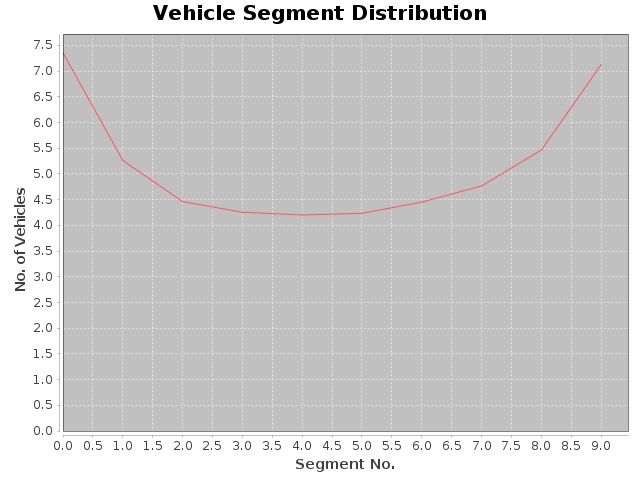
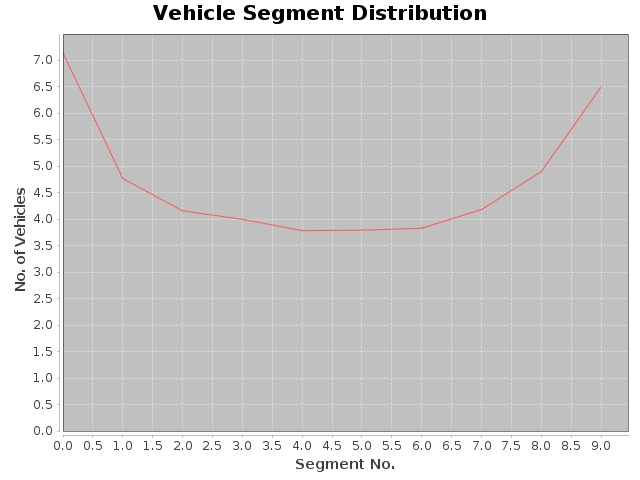
Added a fixed cars mode and obtained relevant plot

diff --git a/src/Simulator.java b/src/Simulator.java
@@ -40,6 +40,9 @@ public class Simulator {
 	static double grid_cost = 0.06;
 	static double solar_cost = 0.001;
 	static double[] min_pdr = new double[no_episodes];
+	static boolean fixed_cars = false;
+	static boolean uniform = true;
+	static int fixed_cars_no = 300; // No. of cars to enter from each dxn
 
 	// Exponential lambdas
 	static double lambda_vehicle = 3.0;
@@ -98,8 +101,12 @@ public class Simulator {
 					templist.add(row.get(j));
 				}
 			}
-			ArrayList<RSU> Uprime = templist; //TODO
-			//ArrayList<RSU> Uprime = RPR(templist, min_pdr[episode_no]);
+			ArrayList<RSU> Uprime; // TODO
+			if (uniform) {
+				Uprime = templist;
+			} else {
+				Uprime = RPR(templist, min_pdr[episode_no]);
+			}
 			for (int i = 0; i < Uprime.size(); i++) {
 				System.out.print(Uprime.get(i).id + ", ");
 			}
@@ -597,19 +604,58 @@ public class Simulator {
 			}
 			int new_seg_x = (int) (v.pos_x / segment_len_x);
 			int new_seg_y = (int) (v.pos_y / segment_len_y);
+			// Vehicle outside boundaries
 			if (new_seg_x >= (road_len_x / segment_len_x) || new_seg_x < 0
 					|| new_seg_y >= (road_len_y / segment_len_y)
 					|| new_seg_y < 0) {
-				rsulist.get(v.segment_x).get(v.segment_y).idle = -1;
-				if (trackVehicle) {
-					System.out.println("Vehicle " + v.id + " deleted");
+				if (fixed_cars) {
+					// Loop the vehicle
+					// Put it at the border
+					if (new_seg_x >= (road_len_x / segment_len_x)) {
+						new_seg_x = (road_len_x / segment_len_x) - 1;
+					} else if (new_seg_x < 0) {
+						new_seg_x = 0;
+					}
+					if (new_seg_y >= (road_len_y / segment_len_y)) {
+						new_seg_y = (road_len_y / segment_len_y) - 1;
+					} else if (new_seg_y < 0) {
+						new_seg_y = 0;
+					}
+					// Change its direction
+					v.x_dxn *= -1;
+					v.y_dxn *= -1;
+					if (v.tx) {
+						rsulist.get(v.segment_x).get(v.segment_y).idle = -1;
+						rsulist.get(new_seg_x).get(new_seg_y).idle = v.id;
+					}
+					if (trackVehicle) {
+						System.out.println("Vehicle " + v.id
+								+ " tx seg change from (" + v.segment_x + ","
+								+ v.segment_y + ") to (" + new_seg_x + ","
+								+ new_seg_y + ")");
+					}
+					v.segment_x = new_seg_x;
+					v.segment_y = new_seg_y;
+					if (trackVehicle) {
+						System.out.println("Vehicle " + v.id + " new seg ("
+								+ v.segment_x + "," + v.segment_y + ")");
+					}
+				} else {
+					if (v.tx) {
+						rsulist.get(v.segment_x).get(v.segment_y).idle = -1;
+					}
+					if (trackVehicle) {
+						System.out.println("Vehicle " + v.id + " deleted");
+					}
+					iterator.remove();
 				}
-				iterator.remove();
 			} else {
 				if ((v.segment_x != new_seg_x || v.segment_y != new_seg_y)
 						&& v.tx) {
-					rsulist.get(v.segment_x).get(v.segment_y).idle = -1;
-					rsulist.get(new_seg_x).get(new_seg_y).idle = v.id;
+					if (v.tx) {
+						rsulist.get(v.segment_x).get(v.segment_y).idle = -1;
+						rsulist.get(new_seg_x).get(new_seg_y).idle = v.id;
+					}
 					if (trackVehicle) {
 						System.out.println("Vehicle " + v.id
 								+ " tx seg change from (" + v.segment_x + ","
@@ -626,69 +672,167 @@ public class Simulator {
 			}
 		}
 
-		// Generate vehicles along X and Y axes, in both dxns
-		int no_generated = (int) generateExp(lambda_vehicle);
-		veh_dist[timestep_no] += no_generated;
+		if (fixed_cars) {
+			if (timestep_no == 0) {
+				// Generate fixed no. of vehicles along X and Y axes, in both
+				// dxns
+				int no_generated = fixed_cars_no;
+				veh_dist[timestep_no] += no_generated;
 
-		if (trackVehicle) {
-			System.out.println(vehlist.size() + " vehicles present.");
-			System.out.println(no_generated + " vehicles gen from L to R:");
-		}
-		for (int i = 0; i < no_generated; i++) {
-			Vehicle to_add = new Vehicle(generateExp(lambda_velocity), +1, 0,
-					0, segment_len_y
-							* rand.nextInt((int) (road_len_y / segment_len_y)));
-			vehlist.add(to_add);
-			if (trackVehicle) {
-				System.out.println("Vehicle " + to_add.id);
+				if (trackVehicle) {
+					System.out.println(vehlist.size() + " vehicles present.");
+					System.out.println(no_generated
+							+ " vehicles gen from L to R:");
+				}
+				for (int i = 0; i < no_generated; i++) {
+					Vehicle to_add = new Vehicle(
+							generateExp(lambda_velocity),
+							+1,
+							0,
+							0,
+							segment_len_y
+									* rand.nextInt((int) (road_len_y / segment_len_y)));
+					vehlist.add(to_add);
+					if (trackVehicle) {
+						System.out.println("Vehicle " + to_add.id);
+					}
+				}
+
+				no_generated = fixed_cars_no;
+				if (trackVehicle) {
+					System.out.println(no_generated
+							+ " vehicles gen from R to L:");
+				}
+				for (int i = 0; i < no_generated; i++) {
+					Vehicle to_add = new Vehicle(
+							generateExp(lambda_velocity),
+							-1,
+							0,
+							road_len_x - 1,
+							segment_len_y
+									* rand.nextInt((int) (road_len_y / segment_len_y)));
+					vehlist.add(to_add);
+					if (trackVehicle) {
+						System.out.println("Vehicle " + to_add.id);
+					}
+				}
+				if (vert_traffic) {
+					no_generated = fixed_cars_no;
+					if (trackVehicle) {
+						System.out.println(no_generated
+								+ " vehicles gen from T to B:");
+					}
+					for (int i = 0; i < no_generated; i++) {
+						Vehicle to_add = new Vehicle(
+								generateExp(lambda_velocity),
+								0,
+								+1,
+								segment_len_x
+										* rand.nextInt((int) (road_len_x / segment_len_x)),
+								0);
+						vehlist.add(to_add);
+						if (trackVehicle) {
+							System.out.println("Vehicle " + to_add.id);
+						}
+					}
+
+					no_generated = fixed_cars_no;
+					if (trackVehicle) {
+						System.out.println(no_generated
+								+ " vehicles gen from B to T:");
+					}
+					for (int i = 0; i < no_generated; i++) {
+						Vehicle to_add = new Vehicle(
+								generateExp(lambda_velocity),
+								0,
+								-1,
+								segment_len_x
+										* rand.nextInt((int) (road_len_x / segment_len_x)),
+								road_len_y - 1);
+						vehlist.add(to_add);
+						if (trackVehicle) {
+							System.out.println("Vehicle " + to_add.id);
+						}
+					}
+				}
 			}
-		}
-		no_generated = (int) generateExp(lambda_vehicle);
-		if (trackVehicle) {
-			System.out.println(no_generated + " vehicles gen from R to L:");
-		}
-		for (int i = 0; i < no_generated; i++) {
-			Vehicle to_add = new Vehicle(generateExp(lambda_velocity), -1, 0,
-					road_len_x - 1, segment_len_y
-							* rand.nextInt((int) (road_len_y / segment_len_y)));
-			vehlist.add(to_add);
+		} else {
+			// Generate random no. of vehicles along X and Y axes, in both dxns
+			int no_generated = (int) generateExp(lambda_vehicle);
+			veh_dist[timestep_no] += no_generated;
+
 			if (trackVehicle) {
-				System.out.println("Vehicle " + to_add.id);
-			}
-		}
-		if (vert_traffic) {
-			no_generated = (int) generateExp(lambda_vehicle);
-			if (trackVehicle) {
-				System.out.println(no_generated + " vehicles gen from T to B:");
+				System.out.println(vehlist.size() + " vehicles present.");
+				System.out.println(no_generated + " vehicles gen from L to R:");
 			}
 			for (int i = 0; i < no_generated; i++) {
 				Vehicle to_add = new Vehicle(
 						generateExp(lambda_velocity),
-						0,
 						+1,
-						segment_len_x
-								* rand.nextInt((int) (road_len_x / segment_len_x)),
-						0);
+						0,
+						0,
+						segment_len_y
+								* rand.nextInt((int) (road_len_y / segment_len_y)));
 				vehlist.add(to_add);
 				if (trackVehicle) {
 					System.out.println("Vehicle " + to_add.id);
 				}
 			}
+
 			no_generated = (int) generateExp(lambda_vehicle);
 			if (trackVehicle) {
-				System.out.println(no_generated + " vehicles gen from B to T:");
+				System.out.println(no_generated + " vehicles gen from R to L:");
 			}
 			for (int i = 0; i < no_generated; i++) {
 				Vehicle to_add = new Vehicle(
 						generateExp(lambda_velocity),
-						0,
 						-1,
-						segment_len_x
-								* rand.nextInt((int) (road_len_x / segment_len_x)),
-						road_len_y - 1);
+						0,
+						road_len_x - 1,
+						segment_len_y
+								* rand.nextInt((int) (road_len_y / segment_len_y)));
 				vehlist.add(to_add);
 				if (trackVehicle) {
 					System.out.println("Vehicle " + to_add.id);
+				}
+			}
+			if (vert_traffic) {
+				no_generated = (int) generateExp(lambda_vehicle);
+				if (trackVehicle) {
+					System.out.println(no_generated
+							+ " vehicles gen from T to B:");
+				}
+				for (int i = 0; i < no_generated; i++) {
+					Vehicle to_add = new Vehicle(
+							generateExp(lambda_velocity),
+							0,
+							+1,
+							segment_len_x
+									* rand.nextInt((int) (road_len_x / segment_len_x)),
+							0);
+					vehlist.add(to_add);
+					if (trackVehicle) {
+						System.out.println("Vehicle " + to_add.id);
+					}
+				}
+
+				no_generated = (int) generateExp(lambda_vehicle);
+				if (trackVehicle) {
+					System.out.println(no_generated
+							+ " vehicles gen from B to T:");
+				}
+				for (int i = 0; i < no_generated; i++) {
+					Vehicle to_add = new Vehicle(
+							generateExp(lambda_velocity),
+							0,
+							-1,
+							segment_len_x
+									* rand.nextInt((int) (road_len_x / segment_len_x)),
+							road_len_y - 1);
+					vehlist.add(to_add);
+					if (trackVehicle) {
+						System.out.println("Vehicle " + to_add.id);
+					}
 				}
 			}
 		}
@@ -792,13 +936,17 @@ public class Simulator {
 			if (new_seg_x >= (road_len_x / segment_len_x) || new_seg_x < 0
 					|| new_seg_y >= (road_len_y / segment_len_y)
 					|| new_seg_y < 0) {
-				rsulist.get(v.segment_x).get(v.segment_y).idle = -1;
+				if (v.tx) {
+					rsulist.get(v.segment_x).get(v.segment_y).idle = -1;
+				}
 				iterator.remove();
 			} else {
 				if ((v.segment_x != new_seg_x || v.segment_y != new_seg_y)
 						&& v.tx) {
-					rsulist.get(v.segment_x).get(v.segment_y).idle = -1;
-					rsulist.get(new_seg_x).get(new_seg_y).idle = v.id;
+					if (v.tx) {
+						rsulist.get(v.segment_x).get(v.segment_y).idle = -1;
+						rsulist.get(new_seg_x).get(new_seg_y).idle = v.id;
+					}
 				}
 				v.segment_x = new_seg_x;
 				v.segment_y = new_seg_y;

diff --git a/plotpdr.py b/plotpdr.py
@@ -1,9 +1,14 @@
 import matplotlib.pyplot as plt
-lambdavals = [3.5, 4.0, 4.5, 5.0]
-lambdavals = [1/x for x in lambdavals]
-pdr = [0.008139093,0.00932193,0.0096013015,0.010214717]
-plt.plot(lambdavals, pdr, marker='o')
-plt.xlabel('Average no. of Vehicles')
+
+#lambdavals = [3.5, 4.0, 4.5, 5.0]
+#lambdavals = [1/x for x in lambdavals]
+cars = [50,100, 150, 200, 250, 300, 350, 400, 450, 500, 550, 600]
+pdr = [0.004858569276976259,0.004532560631684483,0.004465970224316833,0.004065727496814588,0.003817603121057725,0.0037325556639829388,0.0035411350315464464,0.0033872096217835356, 0.003281951041628785, 0.003060179078176671, 0.0029744985952955506, 0.0027941011997091457]
+#pdr = [0.008139093,0.00932193,0.0096013015,0.010214717]
+#plt.plot(lambdavals, pdr, marker='o')
+plt.plot(cars, pdr, marker='o')
+#plt.xlabel('Average no. of Vehicles')
+plt.xlabel('No. of Vehicles')
 plt.ylabel('PDR')
-plt.savefig('vehicle.png', bbox_inches='tight')
+plt.savefig('vehicle_fixed.png', bbox_inches='tight')
 plt.clf()
